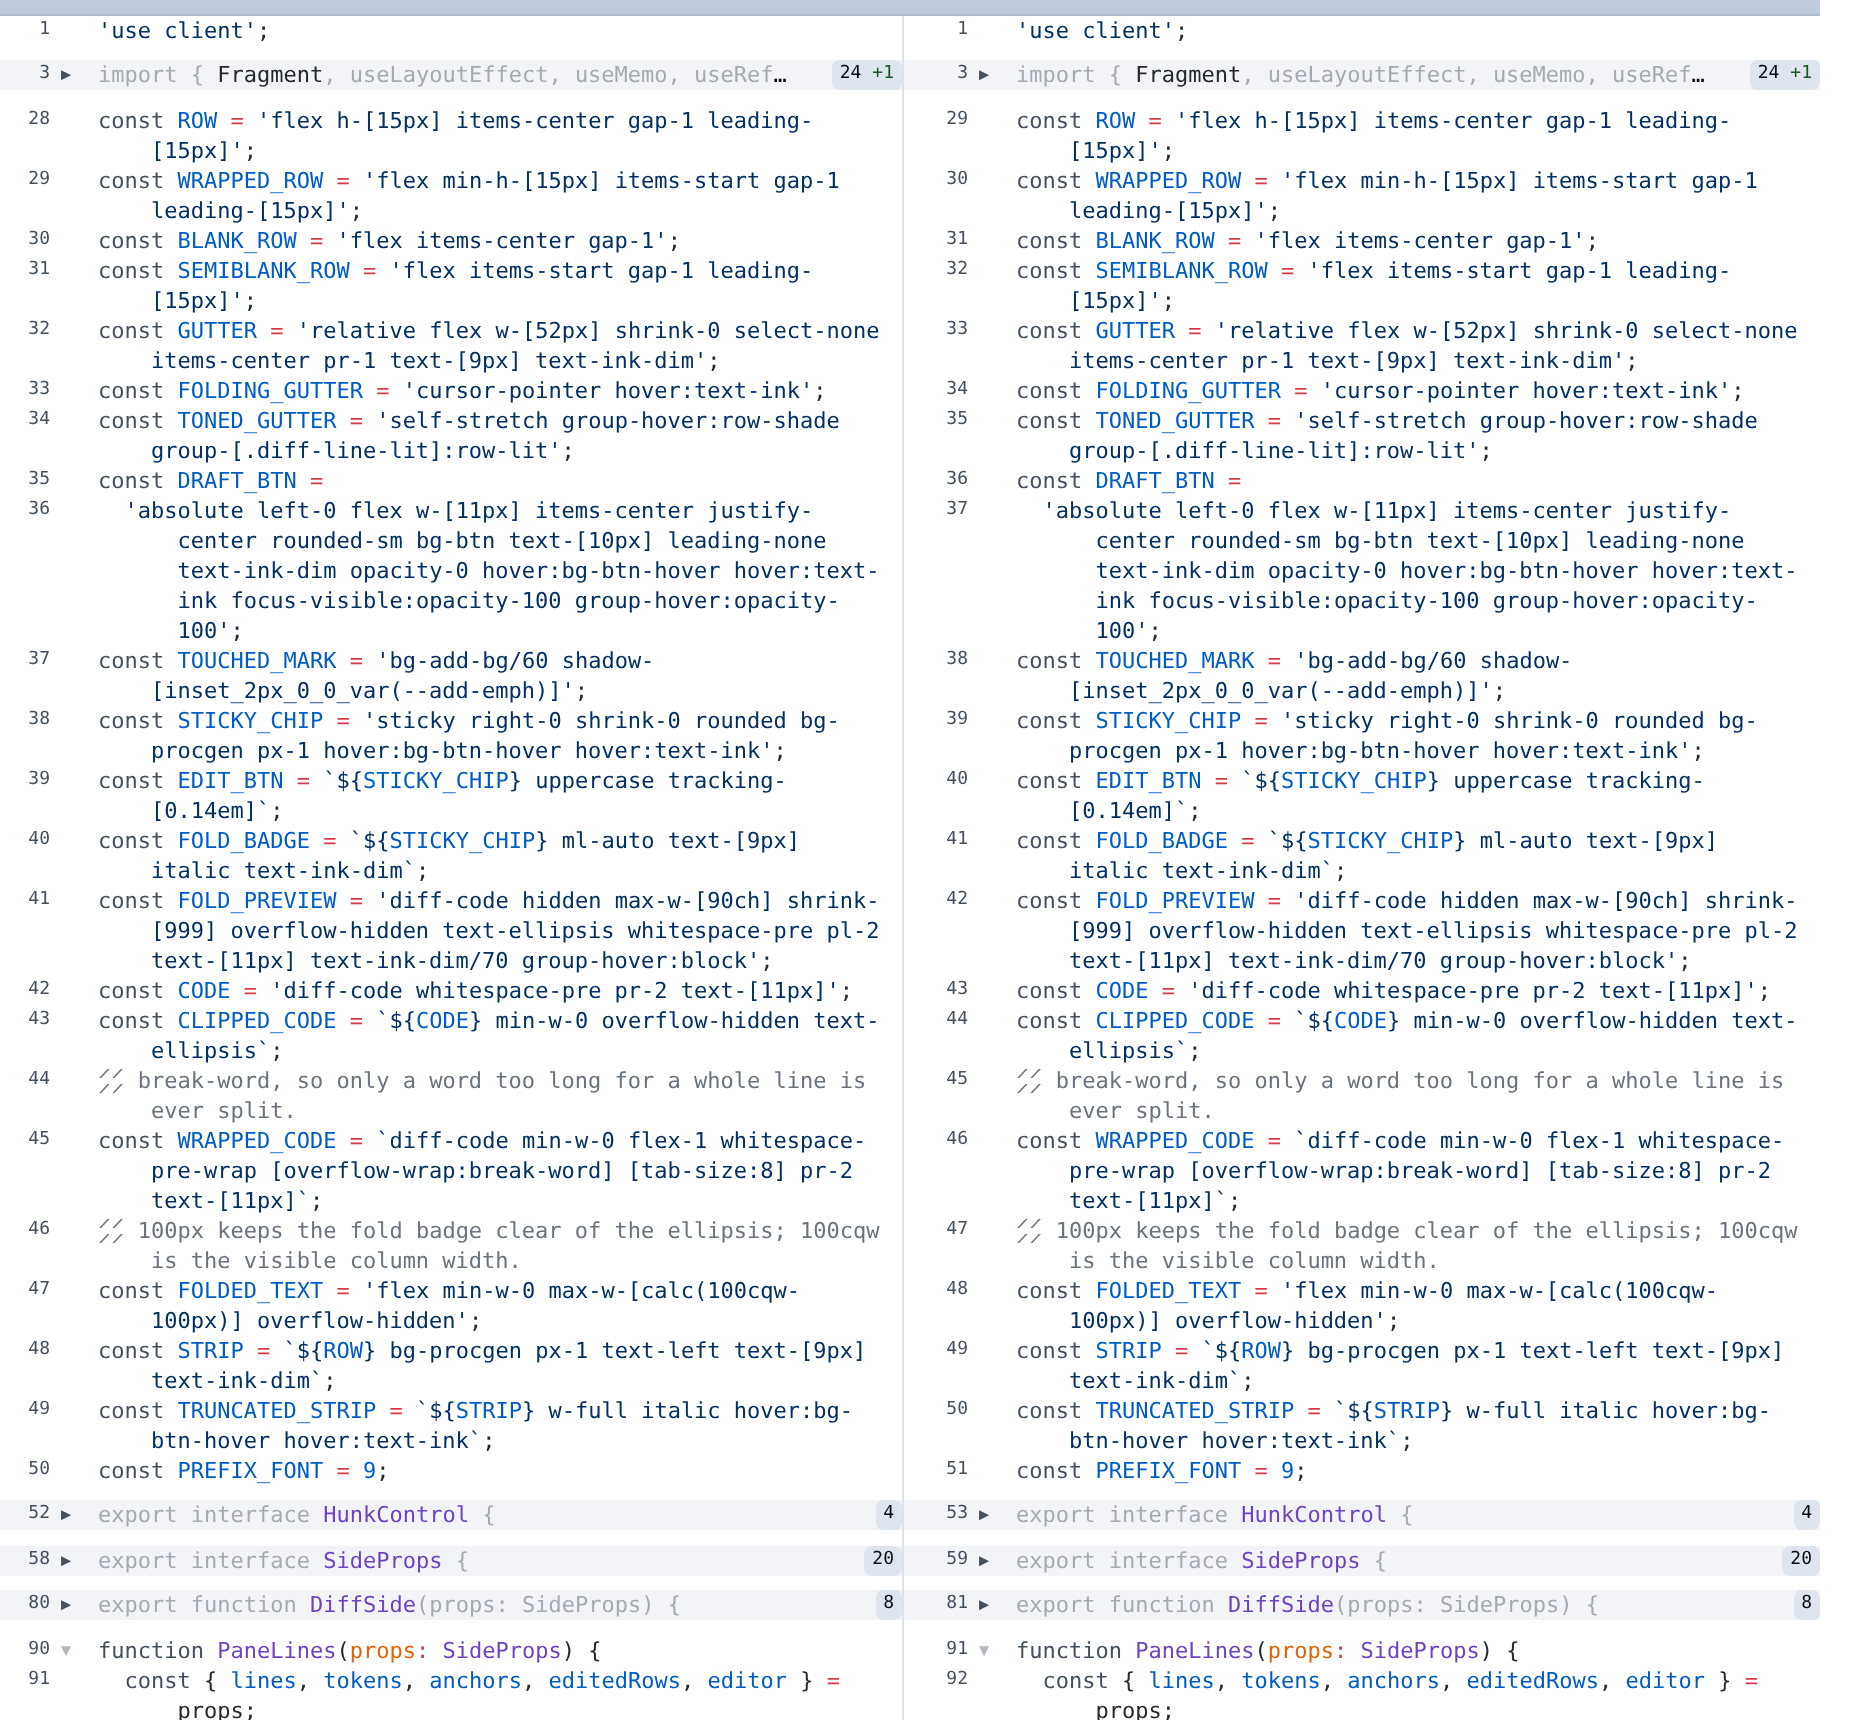
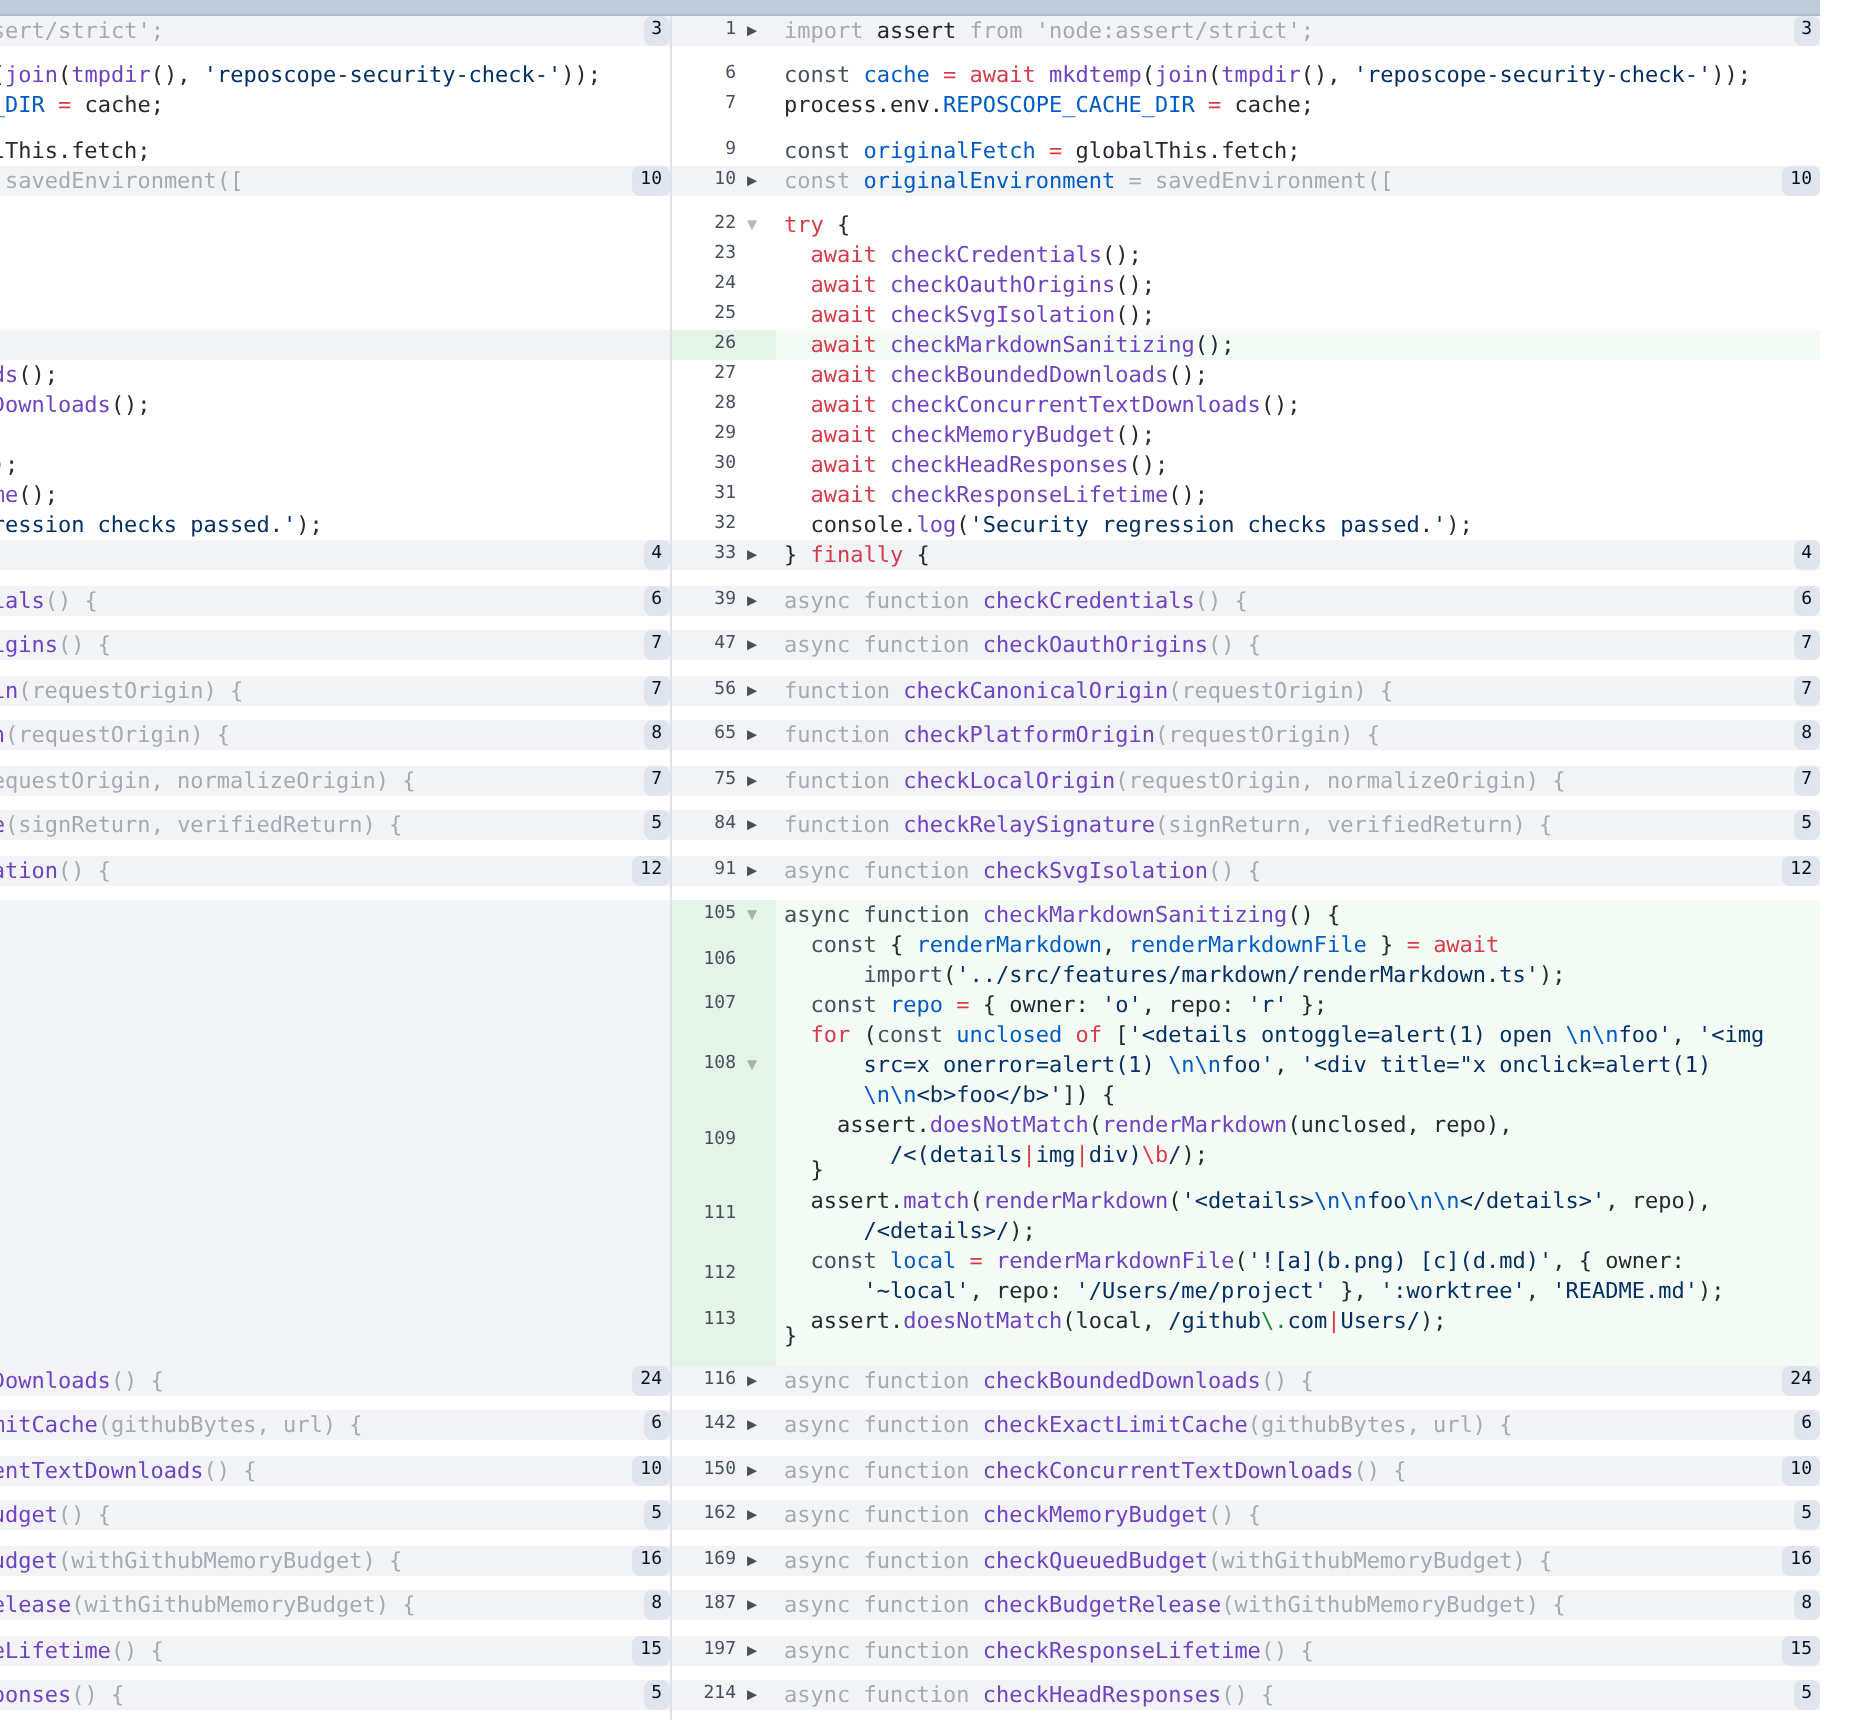
Keep the fold grow animation keyed on the wrap and blank sizes
RowHeights now carries openRows, which is a fresh Set on every fold
toggle, so comparing the whole object made useHeightTransition read each
toggle as a rewrap and skip playGrow. Compare the two sizing fields it
actually meant. Also regenerate the before/after screenshots from the
same revision so they line up.

Claude-Session: https://claude.ai/code/session_01BYHxDXc8S3MfZZb9rhKPb4

diff --git a/src/features/pull-requests/useHeightTransition.ts b/src/features/pull-requests/useHeightTransition.ts
@@ -7,14 +7,14 @@ import type { DiffRow } from './splitDiff';
 export function useHeightTransition(rows: DiffRow[], hidden: Set<number>, heights: RowHeights) {
   const node = useRef<HTMLDivElement | null>(null);
   const measured = useRef<number | null>(null);
-  const wrapped = useRef(heights);
+  const sizing = useRef(heights);
 
   // Rewrapping restates the baseline silently; only folding should animate.
   useLayoutEffect(() => {
     const element = node.current;
     if (!element) return;
-    const rewrapped = wrapped.current !== heights;
-    wrapped.current = heights;
+    const rewrapped = resized(sizing.current, heights);
+    sizing.current = heights;
     const from = measured.current;
     measured.current = element.scrollHeight;
     if (rewrapped || from === null || from === measured.current) return;
@@ -22,6 +22,11 @@ export function useHeightTransition(rows: DiffRow[], hidden: Set<number>, height
   }, [rows, hidden, heights]);
 
   return node;
+}
+
+// openRows changes on every fold toggle, so only the wrap and blank sizes mark a rewrap.
+function resized(held: RowHeights, next: RowHeights): boolean {
+  return held.wrapped !== next.wrapped || held.blank !== next.blank;
 }
 
 function playGrow(element: HTMLElement, from: number, to: number) {
